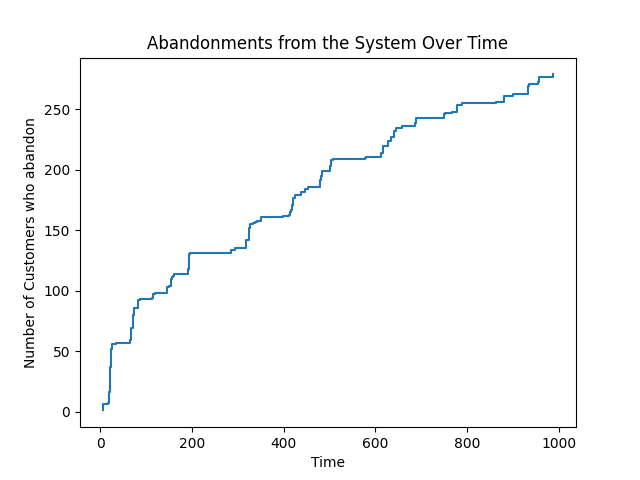
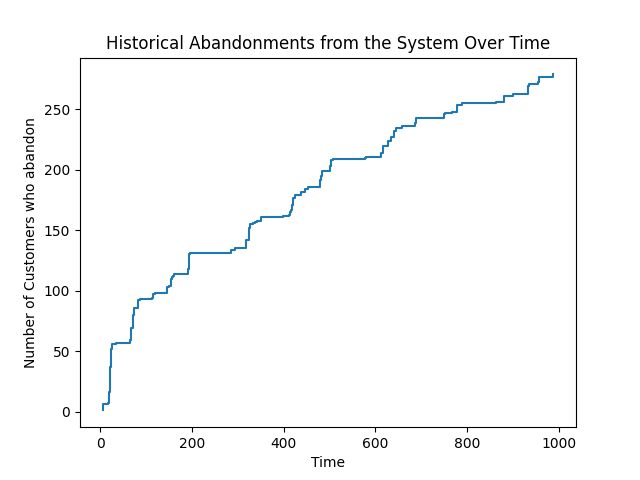
typos

Changed region(s): [[0.1562, 0.0625, 0.875, 0.125]]

diff --git a/oop_code.py b/oop_code.py
@@ -596,7 +596,7 @@ plt.figure()
 plt.step(system_rider_times, system_rider_counts, where='post')
 plt.xlabel("Time")
 plt.ylabel("Number of Customers in System")
-plt.title("Customers in System Over Time")
+plt.title("Historical Customers in System Over Time")
 plt.savefig('deterministic_customers_in_system.png')
 plt.show()
 
@@ -604,7 +604,7 @@ plt.figure()
 plt.step(rider_abandonments_times, rider_abandonments_counts, where='post')
 plt.xlabel("Time")
 plt.ylabel("Number of Customers who abandon")
-plt.title("Abandonments from the System Over Time")
+plt.title("Historical Abandonments from the System Over Time")
 plt.savefig('deterministic_abandonments_over_time.png')
 plt.show()
 
@@ -612,7 +612,7 @@ plt.figure()
 plt.hist(waiting_times, bins=50)
 plt.xlabel("Rider Waiting Time for Pickup")
 plt.ylabel("Number of Riders")
-plt.title("Distribution of Rider Waiting Times")
+plt.title("Historical Distribution of Rider Waiting Times")
 plt.savefig('deterministic_waiting_times.png')
 plt.show()
 
@@ -635,7 +635,7 @@ plt.figure()
 plt.step(system_driver_times, system_driver_counts, where='post')
 plt.xlabel("Time")
 plt.ylabel("Number of Drivers in System")
-plt.title("Drivers in System Over Time")
+plt.title("Historical Drivers in System Over Time")
 plt.savefig('deterministic_drivers_in_system.png')
 plt.show()
 
@@ -651,7 +651,7 @@ plt.figure()
 plt.hist(driver_rest_times_clean, bins=50)
 plt.xlabel("Driver Resting Time (hours)")
 plt.ylabel("Number of Drivers")
-plt.title("Historical Driver Resting Time Distribution")
+plt.title("Historical Resting Time Distribution")
 plt.savefig("dterministic_driver_resting_times.png")
 plt.show()
 
